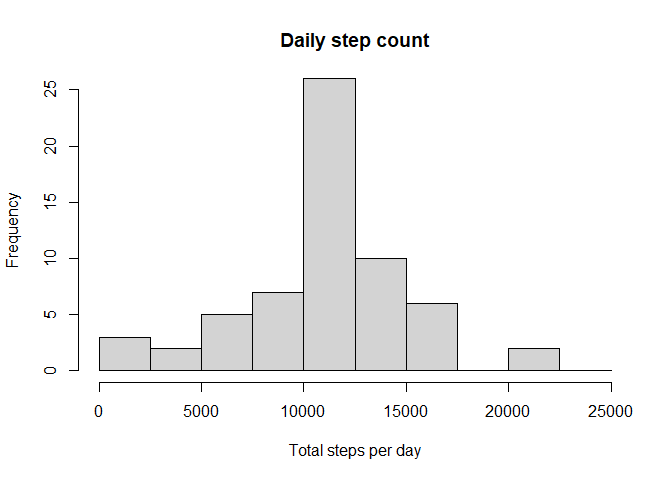
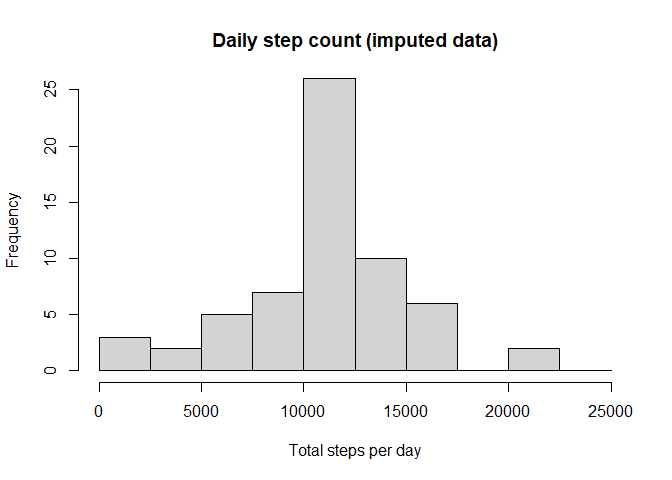
minor changes to explanatory text

Changed region(s): [[0.3125, 0.0625, 0.75, 0.125]]

diff --git a/PA1_template.html b/PA1_template.html
@@ -472,9 +472,10 @@ mean(imputed_steps_day$total)</code></pre>
 hist(imputed_steps_day$total,
      breaks = c(seq(from = 0, to = 25000, by = 2500)),
      ylim = c(0,25),
-     main = &quot;Daily step count&quot;,
+     main = &quot;Daily step count (imputed data)&quot;,
      xlab = &quot;Total steps per day&quot;)</code></pre>
[2 lines of base64/hex data omitted]
+<p>As you can see, the mean and median total steps per day increase after imputation. Additionally, from the histogram you can see that the distribution of the data becomes more normally distributed. There is a big drop in the frequency of days with total steps between 0-2500.</p>
 </div>
 <div id="are-there-differences-in-activity-patterns-between-weekdays-and-weekends" class="section level2">
 <h2>Are there differences in activity patterns between weekdays and weekends?</h2>

diff --git a/PA1_template.md b/PA1_template.md
@@ -174,10 +174,12 @@ median(imputed_steps_day$total)
 hist(imputed_steps_day$total,
      breaks = c(seq(from = 0, to = 25000, by = 2500)),
      ylim = c(0,25),
-     main = "Daily step count",
+     main = "Daily step count (imputed data)",
      xlab = "Total steps per day")
 ```
 
 ![](PA1_template_files/figure-html/unnamed-chunk-8-1.png)<!-- -->
+
+As you can see, the mean and median total steps per day increase after imputation. Additionally, from the histogram you can see that the distribution of the data becomes more normally distributed. There is a big drop in the frequency of days with total steps between 0-2500.
 
 ## Are there differences in activity patterns between weekdays and weekends?
